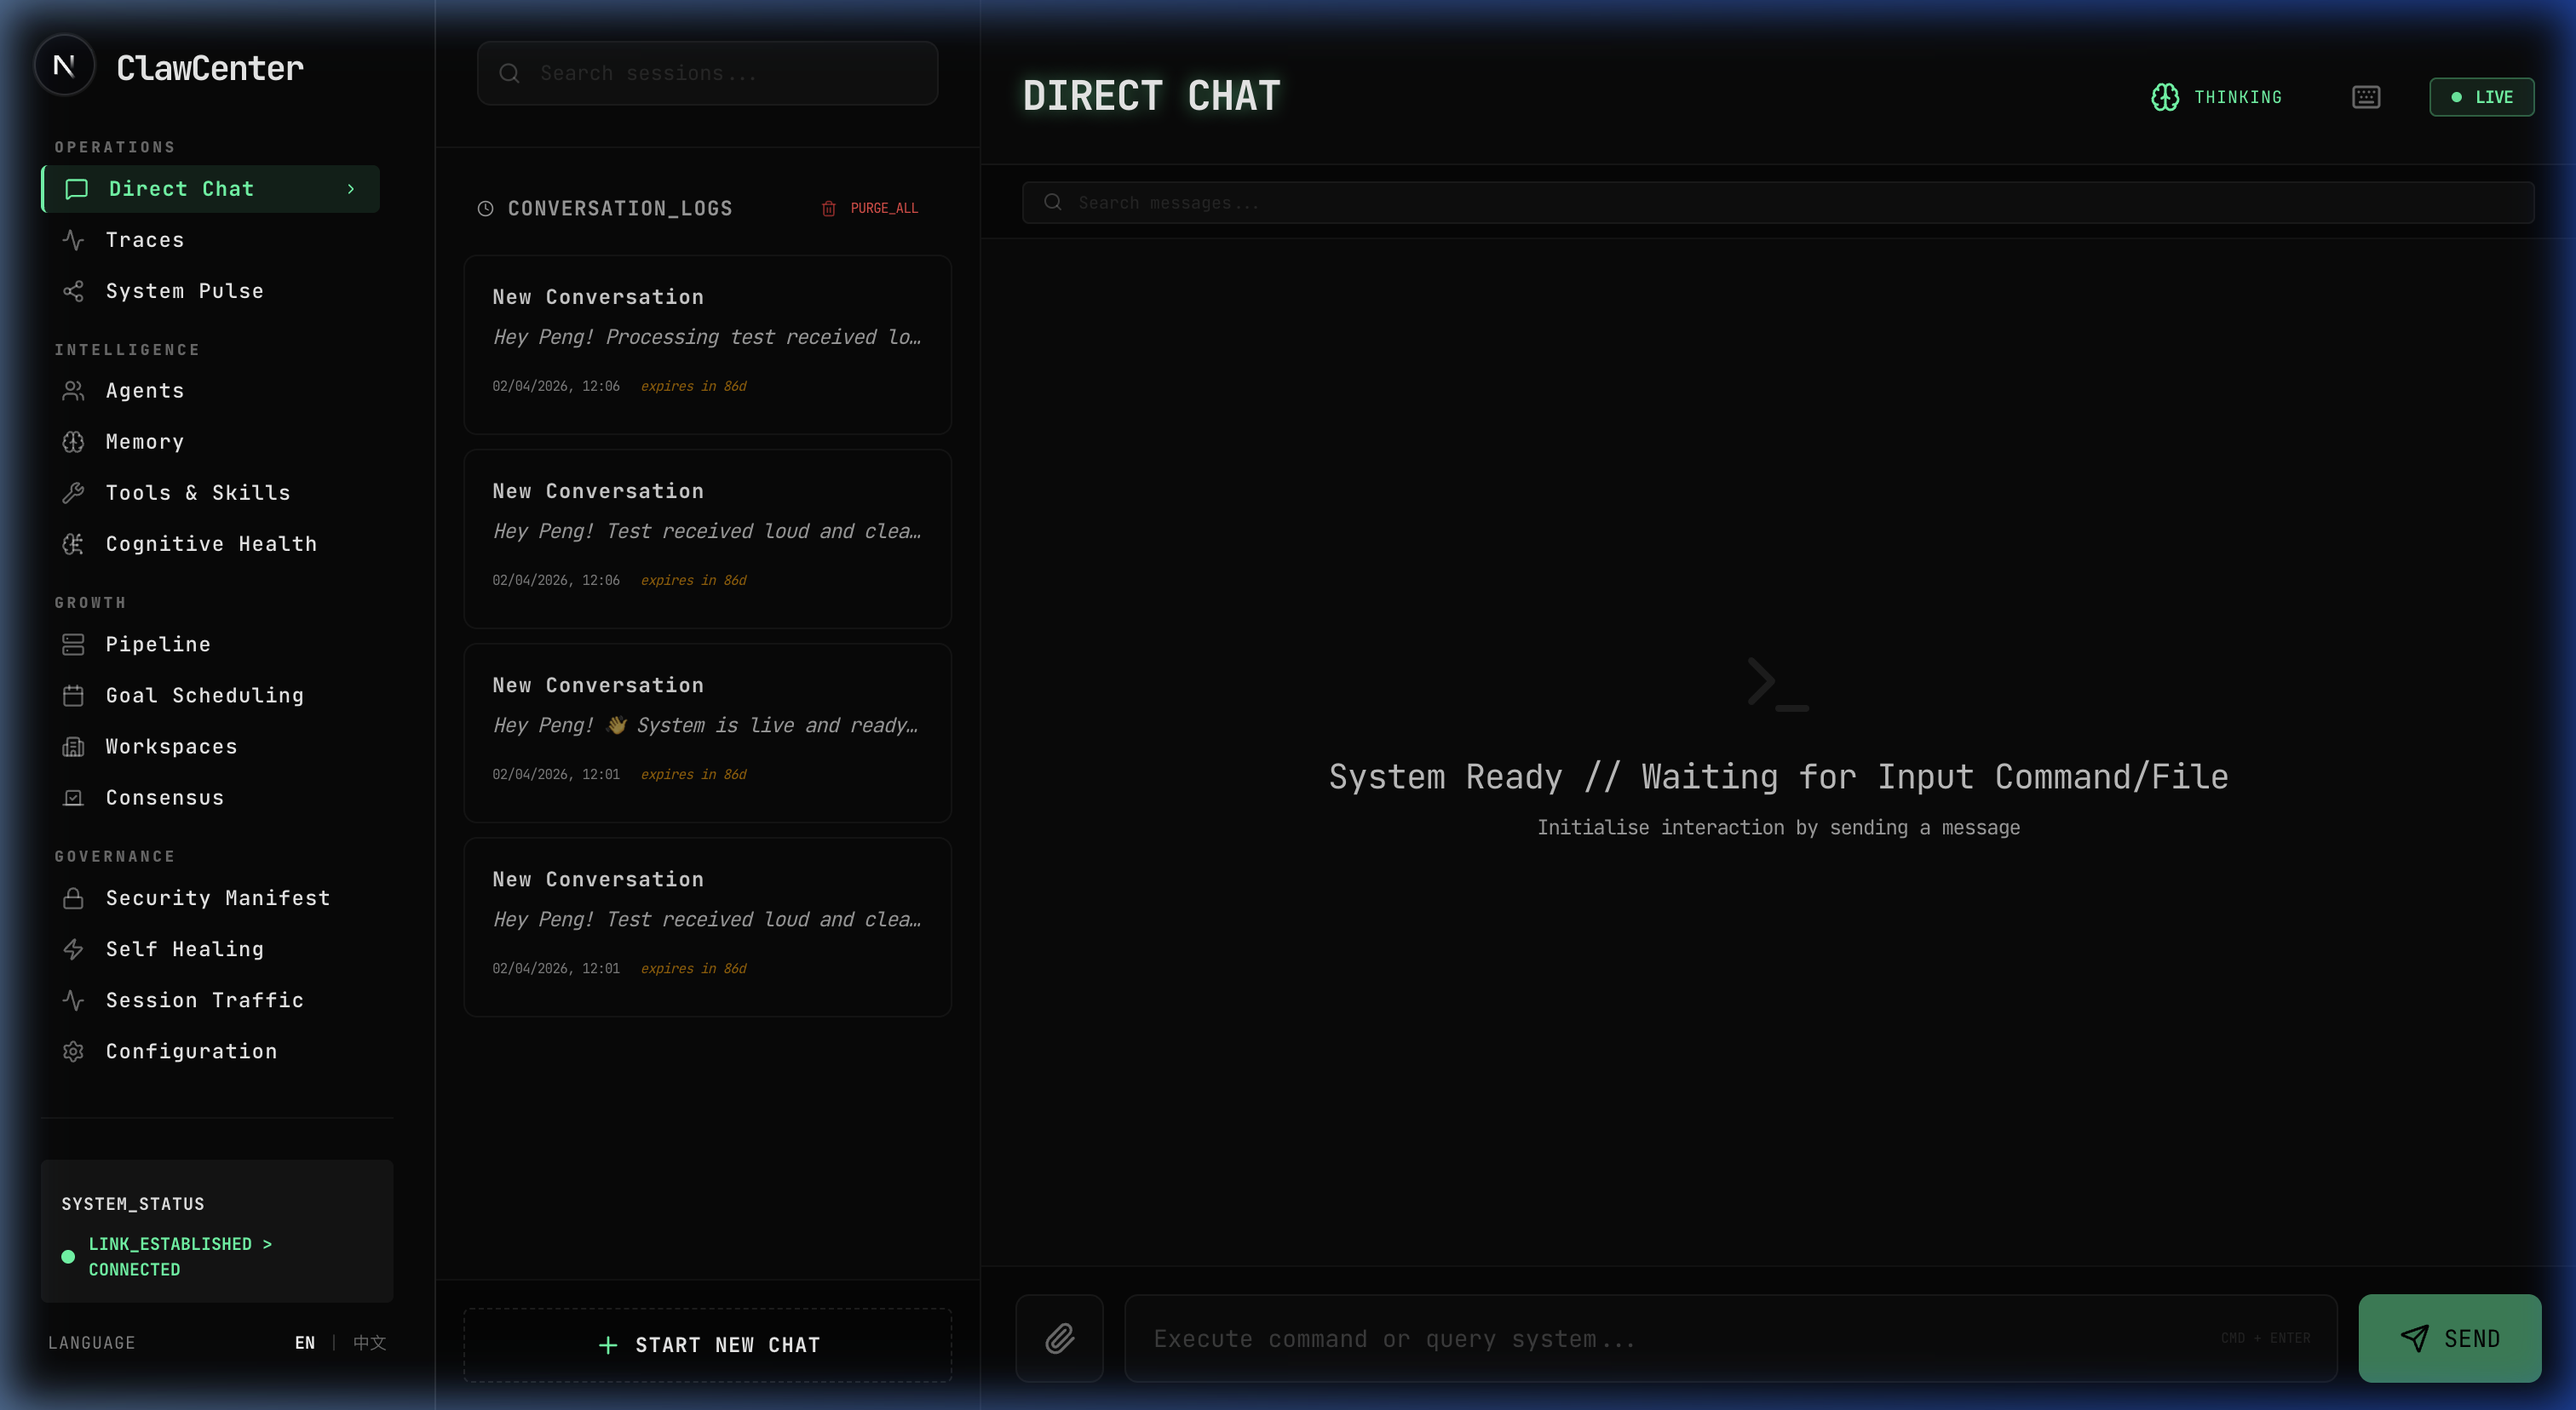
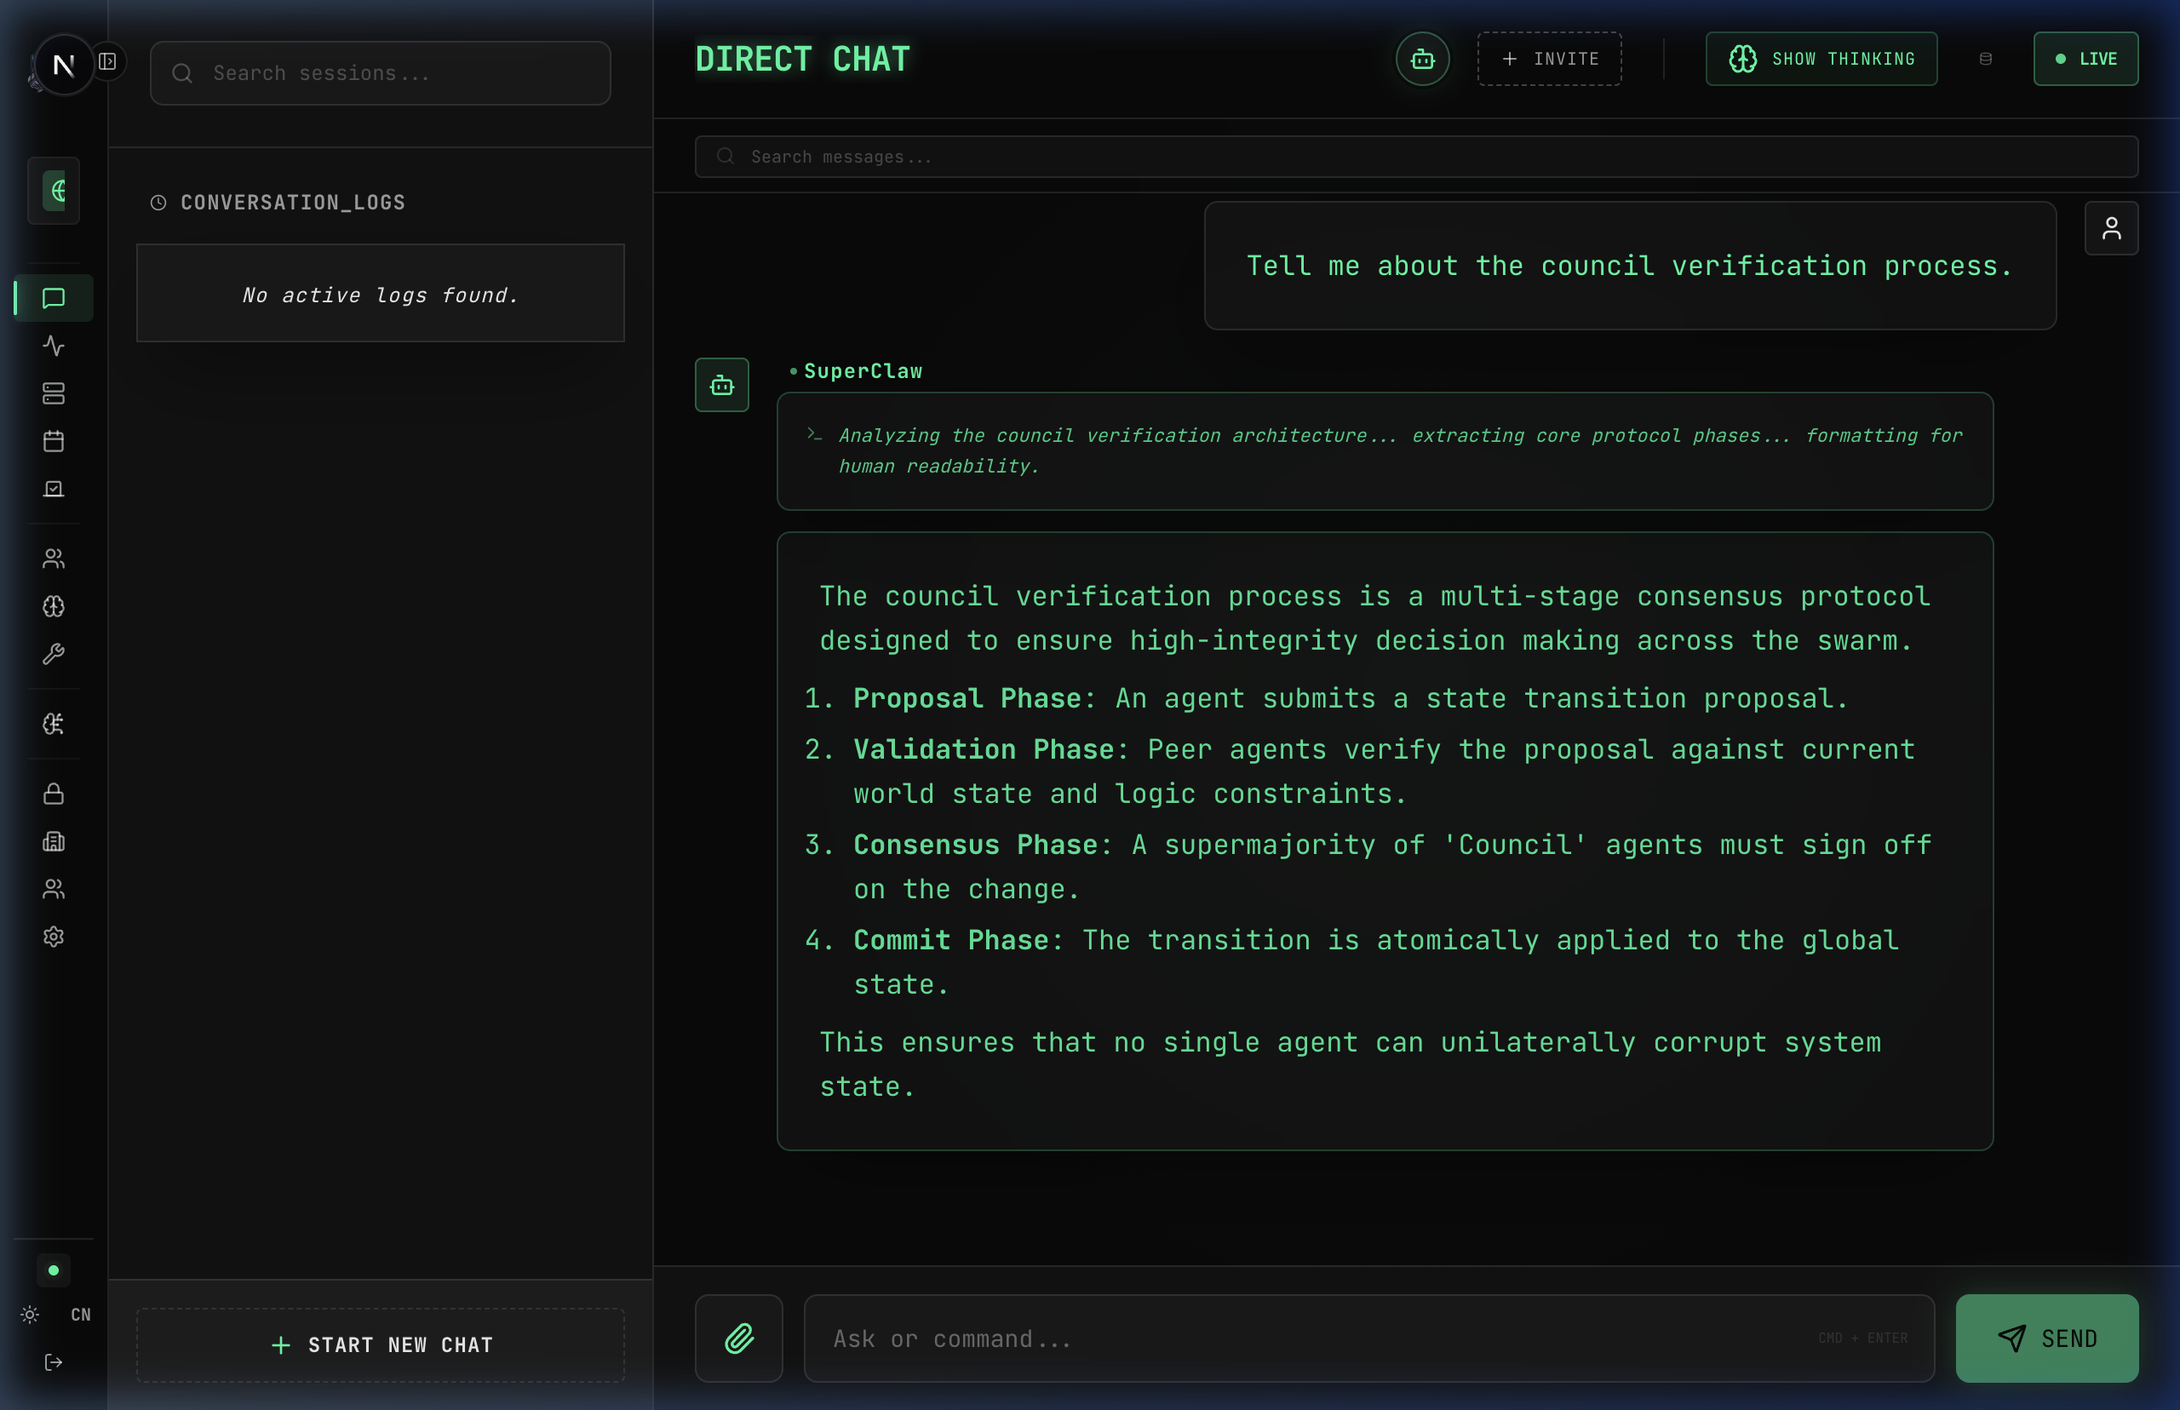
fix(dashboard): resolve layout inconsistencies and infrastructure map crashes
- Introduce MainLayout to manage page-specific padding and breadcrumb visibility.
- Fix layout gaps on /chat page by removing global padding and hiding breadcrumbs.
- Add defensive null checks to SystemPulseFlow to prevent crashes when topology data is incomplete.
- Improve infrastructure map visibility by using absolute positioning for the flow container.
- Update README and public assets for the Neural Hub rebranding.

diff --git a/dashboard/src/app/system-pulse/Flow.tsx b/dashboard/src/app/system-pulse/Flow.tsx
@@ -323,12 +323,15 @@ export function FlowContent() {
 
       const topology: BlueprintTopology = await infraRes.json();
 
+      const topologyNodes = topology?.nodes || [];
+      const topologyEdges = topology?.edges || [];
+
       const newNodes: Node[] = [];
       const newEdges: Edge[] = [];
 
       // Degree calculation for spatial layout
       const nodeDegrees: Record<string, number> = {};
-      topology.edges.forEach((edge) => {
+      topologyEdges.forEach((edge) => {
         nodeDegrees[edge.source] = (nodeDegrees[edge.source] ?? 0) + 1;
         nodeDegrees[edge.target] = (nodeDegrees[edge.target] ?? 0) + 1;
       });
@@ -343,7 +346,7 @@ export function FlowContent() {
       };
 
       tiers.forEach((tier) => {
-        const nodesInTier = topology.nodes.filter(
+        const nodesInTier = topologyNodes.filter(
           (n) => (n.tier?.toUpperCase() || 'INFRA') === tier
         );
 
@@ -417,7 +420,7 @@ export function FlowContent() {
       });
 
       // Edge processing
-      topology.edges.forEach((edge) => {
+      topologyEdges.forEach((edge) => {
         const isMainOrch =
           edge.label === 'ORCHESTRATE' || (edge.source === 'superclaw' && edge.target === 'bus');
         const isBusSignal =
@@ -433,11 +436,11 @@ export function FlowContent() {
         if (isInvoke) strokeColor = FLOW_COLORS.VIVID_YELLOW;
         if (isProactive) strokeColor = FLOW_COLORS.FUCHSIA;
 
-        const isBiDirectional = topology.edges.some(
+        const isBiDirectional = topologyEdges.some(
           (e) => e.source === edge.target && e.target === edge.source
         );
-        const edgeIndex = topology.edges.indexOf(edge);
-        const reverseEdgeIndex = topology.edges.findIndex(
+        const edgeIndex = topologyEdges.indexOf(edge);
+        const reverseEdgeIndex = topologyEdges.findIndex(
           (e) => e.source === edge.target && e.target === edge.source
         );
         const isPrimary = !isBiDirectional || edgeIndex < reverseEdgeIndex;
@@ -498,7 +501,7 @@ export function FlowContent() {
   }, [fetchBlueprint, fitView]);
 
   return (
-    <div className="h-full w-full bg-background rounded-lg border border-border relative overflow-hidden">
+    <div className="absolute inset-0 bg-background rounded-lg border border-border overflow-hidden">
       {loading ? (
         <div className="absolute inset-0 flex items-center justify-center bg-background/50 z-20 backdrop-blur-sm">
           <div className="flex flex-col items-center gap-4">

diff --git a/core/lib/logger.ts b/core/lib/logger.ts
@@ -90,15 +90,12 @@ class Logger {
     ...args: unknown[]
   ): void {
     const formatted = this.formatLog(level, message, context, ...args);
+    const prefix = `${formatted.prefix} ${formatted.message}`;
 
     if (formatted.context) {
-      console[consoleMethod](
-        `${formatted.prefix} ${formatted.message}`,
-        formatted.context,
-        ...formatted.args
-      );
+      console[consoleMethod](prefix, formatted.context, ...formatted.args);
     } else {
-      console[consoleMethod](`${formatted.prefix} ${formatted.message}`, ...formatted.args);
+      console[consoleMethod](prefix, ...formatted.args);
     }
   }
 
@@ -192,10 +189,11 @@ class Logger {
   error(message: unknown, contextOrArgs?: LogContext | unknown, ...args: unknown[]): void {
     if (this.level <= LogLevel.ERROR) {
       const msg = typeof message === 'string' ? message : String(message);
+      const isObject =
+        contextOrArgs && typeof contextOrArgs === 'object' && !Array.isArray(contextOrArgs);
+
       if (
-        contextOrArgs &&
-        typeof contextOrArgs === 'object' &&
-        !Array.isArray(contextOrArgs) &&
+        isObject &&
         ('traceId' in contextOrArgs ||
           'sessionId' in contextOrArgs ||
           'agentId' in contextOrArgs ||
@@ -203,6 +201,7 @@ class Logger {
       ) {
         this.output('error', 'ERROR', msg, contextOrArgs as LogContext, ...args);
       } else if (contextOrArgs !== undefined) {
+        // If it's an object that looks empty (like an Error), or just a primitive, log it as an argument
         this.output('error', 'ERROR', msg, undefined, contextOrArgs, ...args);
       } else {
         this.output('error', 'ERROR', msg, undefined, ...args);

diff --git a/core/lib/utils/resource-helpers.ts b/core/lib/utils/resource-helpers.ts
@@ -1,4 +1,5 @@
 import { Resource } from 'sst';
+import { logger } from '../logger';
 
 /**
  * Robustly resolves an SST resource property (e.g., 'name', 'value', 'endpoint')
@@ -45,17 +46,25 @@ export function resolveSSTResourceValue(
   // BUT we allow it in test environments where Resource is often mocked
   if (
     process.env.SST_RESOURCE_App ||
-    process.env.SST_STAGE ||
     process.env.VITEST ||
     process.env.NODE_ENV === 'test' ||
     process.env.PLAYWRIGHT
   ) {
     try {
+      // Use a more defensive approach to access Resource
       const resource = Resource as unknown as Record<string, Record<string, string>>;
-      const item = resource[resourceName];
-      if (item && item[property]) return item[property];
+      if (resource && typeof resource === 'object') {
+        const item = resource[resourceName];
+        if (item && item[property]) return item[property];
+      }
     } catch {
       // Resource access might throw if not linked
+      // We log it only if we were reasonably sure it should have worked
+      if (process.env.SST_RESOURCE_App) {
+        logger.debug(
+          `[ResourceHelpers] Failed to access Resource.${resourceName}.${property} even with SST_RESOURCE_App present`
+        );
+      }
     }
   }
 

diff --git a/dashboard/src/components/TraceIntelligenceView.tsx b/dashboard/src/components/TraceIntelligenceView.tsx
@@ -63,6 +63,9 @@ export default function TraceIntelligenceView({
   );
   const [sourceFilter, setSourceFilter] = useState<string>('all');
 
+  const [mountTime, setMountTime] = useState<number>(0);
+  const { t } = useTranslations();
+
   // Derive dateFilter from URL searchParams
   const startTimeParam = searchParams.get('startTime');
   const dateFilter = useMemo(() => {
@@ -76,7 +79,7 @@ export default function TraceIntelligenceView({
     if (diffHours <= 169 && diffHours >= 167) return '7d';
     if (startTimeNum === 0) return 'all';
     return 'custom';
-  }, [startTimeParam]);
+  }, [startTimeParam, mountTime]);
 
   const setDateFilter = (value: 'all' | '24h' | '7d') => {
     const params = new URLSearchParams(searchParams.toString());
@@ -92,8 +95,6 @@ export default function TraceIntelligenceView({
     router.push(`/trace?${params.toString()}`);
   };
   const [expandedGroup, setExpandedGroup] = useState<string | null>(null);
-  const [mountTime, setMountTime] = useState<number>(0);
-  const { t } = useTranslations();
 
   // Capture mount time once to provide stable reference for date filtering
   React.useEffect(() => {

diff --git a/dashboard/src/app/layout.tsx b/dashboard/src/app/layout.tsx
@@ -34,6 +34,7 @@ import { TenantProvider } from '@/components/Providers/TenantProvider';
 import { GlobalModals } from '@/components/GlobalModals';
 import Breadcrumbs from '@/components/Breadcrumbs';
 import CommandPalette from '@/components/CommandPalette';
+import { MainLayout } from '@/components/Layout/MainLayout';
 
 export default async function RootLayout({
   children,
@@ -84,13 +85,7 @@ export default async function RootLayout({
                     <div className="flex h-screen w-full overflow-hidden">
                       <Sidebar />
                       <div className="flex-1 flex flex-col min-w-0 relative">
-                        <main
-                          id="main-content"
-                          className="flex-1 flex flex-col min-h-0 pt-16 lg:pt-0 p-6 lg:p-10"
-                        >
-                          <Breadcrumbs />
-                          {children}
-                        </main>
+                        <MainLayout>{children}</MainLayout>
                         <ChatBubble />
                       </div>
                     </div>

diff --git a/dashboard/src/components/Layout/MainLayout.tsx b/dashboard/src/components/Layout/MainLayout.tsx
@@ -1,0 +1,24 @@
+'use client';
+
+import React from 'react';
+import { usePathname } from 'next/navigation';
+import Breadcrumbs from '../Breadcrumbs';
+
+export function MainLayout({ children }: { children: React.ReactNode }) {
+  const pathname = usePathname();
+
+  const isChatPage = pathname === '/chat' || pathname?.startsWith('/chat/');
+
+  const noPadding = isChatPage;
+  const hideBreadcrumbs = isChatPage;
+
+  return (
+    <main
+      id="main-content"
+      className={`flex-1 flex flex-col min-h-0 pt-16 lg:pt-0 ${noPadding ? '' : 'p-6 lg:p-10'}`}
+    >
+      {!hideBreadcrumbs && <Breadcrumbs />}
+      {children}
+    </main>
+  );
+}

diff --git a/dashboard/src/components/Chat/useChatMessages.ts b/dashboard/src/components/Chat/useChatMessages.ts
@@ -296,7 +296,7 @@ export function useChatMessages(
           errorData = { error: 'Unknown error' };
         }
         const errorContent = errorData.details || errorData.error || AGENT_ERRORS.PROCESS_FAILURE;
-        logger.error('Chat API error:', errorData);
+        logger.error(`Chat API error (${response.status}):`, errorData);
         if (currentSessionId === activeSessionRef.current) {
           setMessages((prev: ChatMessage[]) => [
             ...prev,

diff --git a/README.md b/README.md
@@ -1,7 +1,7 @@
 # Official ServerlessClaw: Autonomous AI Agent Swarm for AWS
 
 <p align="center">
-  <img src="./dashboard/public/system-pulse.png" alt="ServerlessClaw Dashboard - Real-time Infrastructure Topology" width="800">
+  <img src="./dashboard/public/neural-hub.png" alt="ServerlessClaw Neural Hub - Central Command and Cognitive Metrics" width="800">
 </p>
 
 <p align="center">
@@ -74,6 +74,14 @@ In 2026, **the 24/7 VPS mascot is dead.** Running AI agent swarms on persistent 
 Serverless Claw doesn't just execute code; it **improves itself**. But unlike raw autonomous systems, every evolution is gated by a **Council of Agents**.
 
 <p align="center">
+  <img src="./dashboard/public/system-pulse.png" alt="ServerlessClaw System Pulse - Real-time Infrastructure Topology" width="800">
+</p>
+
+---
+
+## Neural Observation & Trace Intelligence
+
+<p align="center">
   <img src="./dashboard/public/trace-portal.png" alt="ServerlessClaw Trace Portal - Neural Observation and Execution Paths" width="800">
 </p>
 
@@ -89,6 +97,10 @@ When you send a message, **SuperClaw** receives it, develops a plan with the **S
 
 ## 🤖 The Multi-Agent Ecosystem
 
+<p align="center">
+  <img src="./dashboard/public/agent-registry.png" alt="ServerlessClaw Agent Registry - Autonomous Persona Management" width="800">
+</p>
+
 | Agent                   | Responsibilities                                               |
 | :---------------------- | :------------------------------------------------------------- |
 | **SuperClaw**           | Orchestrator. Interprets intent, delegates tasks, and deploys. |
@@ -98,6 +110,14 @@ When you send a message, **SuperClaw** receives it, develops a plan with the **S
 | **Facilitator**         | Moderates collaboration between multiple agents and humans.    |
 | **Cognition Reflector** | Distills memory and identifies system-wide gaps.               |
 | **Critic Agents**       | Peer-reviewers for Security, Performance, and Architecture.    |
+
+---
+
+## 🛠 Capability Matrix
+
+<p align="center">
+  <img src="./dashboard/public/capability-library.png" alt="ServerlessClaw Capability Library - Dynamic Tool and Skill Discovery" width="800">
+</p>
 
 ---
 
